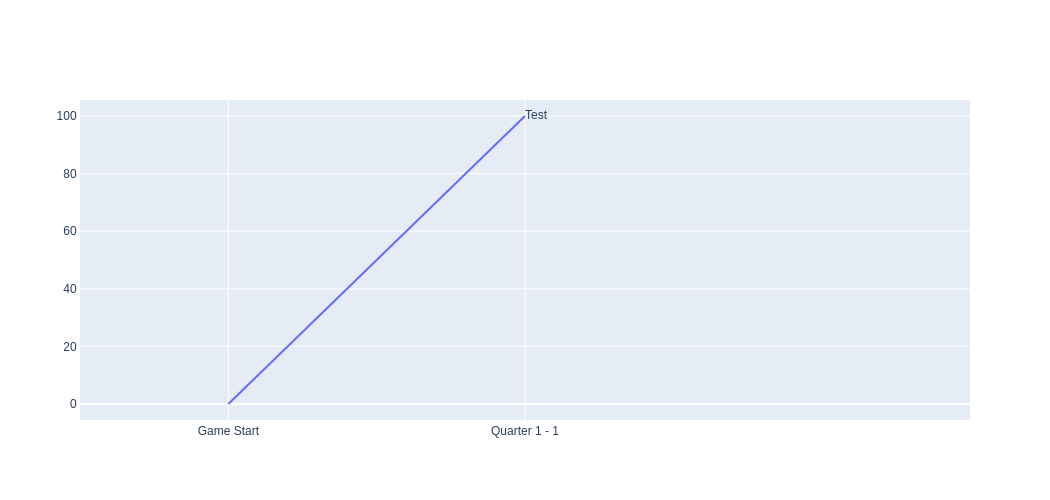
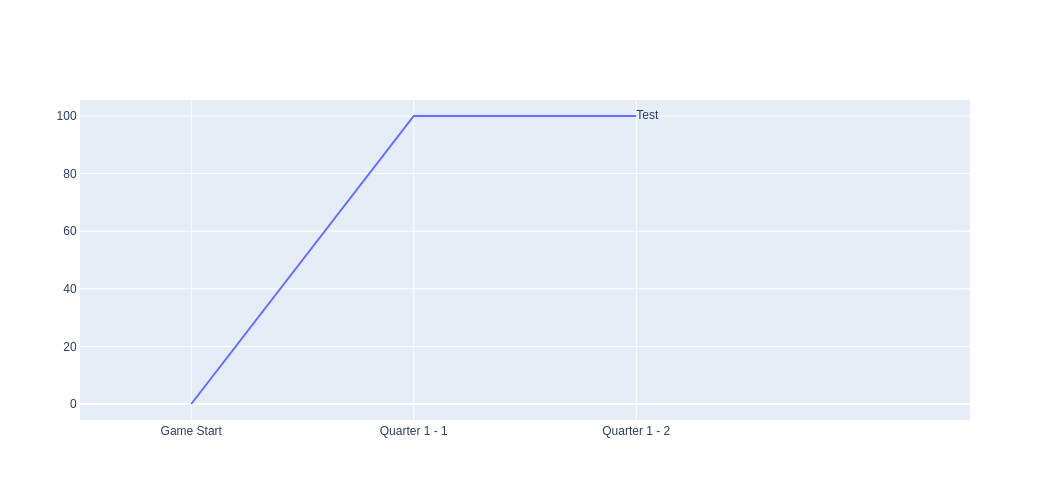
Live Edits

diff --git a/Trivia/Live_Tracker.html b/Trivia/Live_Tracker.html
@@ -13,7 +13,7 @@
         document.getElementById("title").innerHTML = "Trivia Live Scoring - " + m + "/" + d + "/" + y;
         </script>
         <div><img src = "img/fig1.png"></div>
-        <div>1 person (100%) got question 1-1 correct.</div>
+        <div>0 people (0%) got question 1-2 correct.</div>
         
         </body>
         </html>
